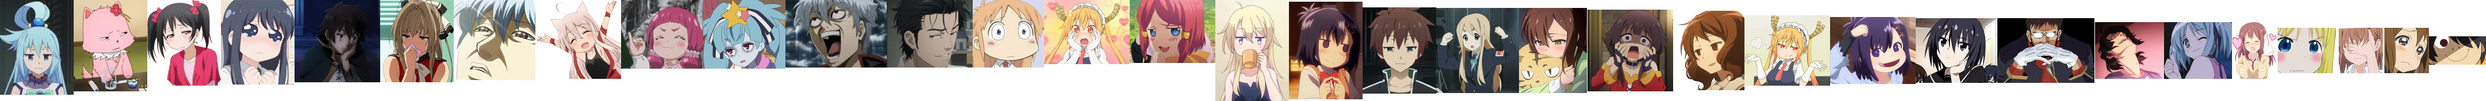
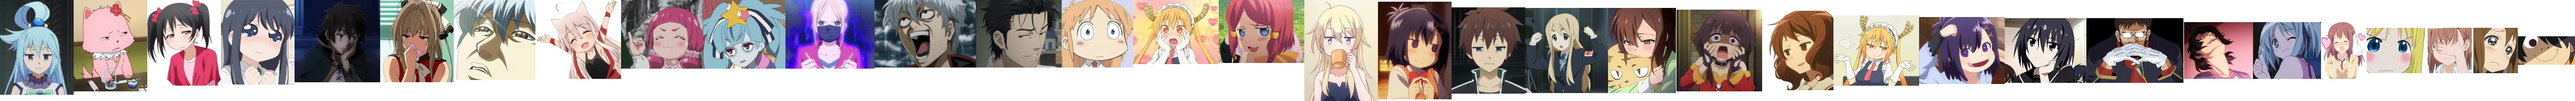
adds #maskedup

diff --git a/src/_commentfaces-static.scss b/src/_commentfaces-static.scss
@@ -346,14 +346,15 @@ $static-comment-faces: (
 				"disbelief": ("height": 119, "width": 125, "position": 2651),
 				"datass": ("height": 119, "width": 150, "position": 2801),
 				"crazedlaugh": ("height": 119, "width": 178, "position": 2979),
-				"bruh": ("height": 121, "width": 144, "position": 3123),
-				"promise": ("height": 121, "width": 144, "position": 3267),
-				"urarahype": ("height": 139, "width": 150, "position": 3417),
-				"gintamathispleasesme": ("height": 141, "width": 143, "position": 3560),
-				"kanyehidouyo": ("height": 145, "width": 129, "position": 3689),
-				"dejected": ("height": 145, "width": 150, "position": 3839),
-				"makicry": ("height": 149, "width": 129, "position": 3968),
-				"nicoisdone": ("height": 151, "width": 129, "position": 4097),
-				"sideeyes": ("height": 161, "width": 129, "position": 4226),
-				"konosubawot": ("height": 167, "width": 129, "position": 4355)))
+				"maskedup": ("height": 121, "width": 156, "position": 3135),
+				"bruh": ("height": 121, "width": 144, "position": 3279),
+				"promise": ("height": 121, "width": 144, "position": 3423),
+				"urarahype": ("height": 139, "width": 150, "position": 3573),
+				"gintamathispleasesme": ("height": 141, "width": 143, "position": 3716),
+				"kanyehidouyo": ("height": 145, "width": 129, "position": 3845),
+				"dejected": ("height": 145, "width": 150, "position": 3995),
+				"makicry": ("height": 149, "width": 129, "position": 4124),
+				"nicoisdone": ("height": 151, "width": 129, "position": 4253),
+				"sideeyes": ("height": 161, "width": 129, "position": 4382),
+				"konosubawot": ("height": 167, "width": 129, "position": 4511)))
 );
